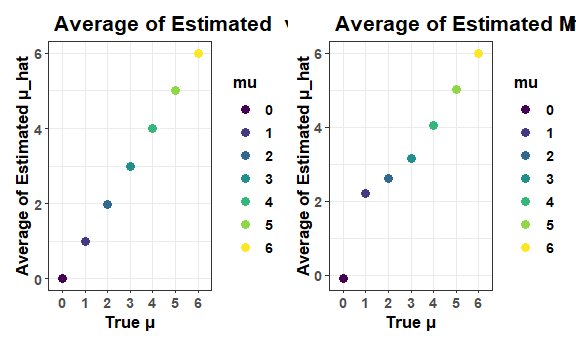
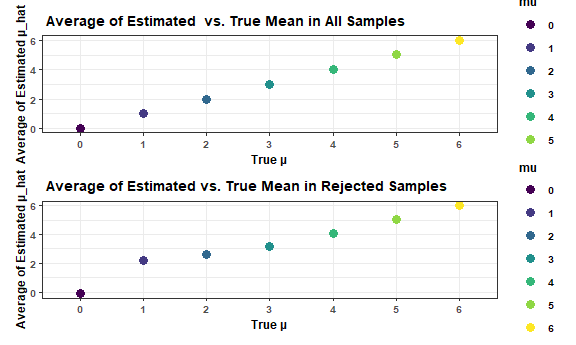
Finish editting Problem 3.

diff --git a/p8105_hw5_qz2266.md b/p8105_hw5_qz2266.md
@@ -187,15 +187,15 @@ unsettled.
 
 ### Problem 3
 
-#### Set the function and ttest
+#### Set the function
 
 ``` r
 set.seed(1)
 
-sim_nor = function(n = 30, mu = 0, sigma = 5){
+sim_nor = function(n = 30, mu, sigma = 5){
   sim_data = tibble(
     x = rnorm(n, mean = mu, sd = sigma))
-  ttest = t.test(x = sim_data, conf.level = 0.95) %>%
+    ttest = t.test(x = sim_data, conf.level = 0.95) %>%
     broom::tidy() %>%
     select(estimate, p.value)
 }
@@ -271,6 +271,13 @@ power_plot
 
 <img src="p8105_hw5_qz2266_files/figure-gfm/unnamed-chunk-7-1.png" width="90%" />
 
+From the power_plot, we find that as the true mean increases, the
+proportion of rejecting null hypothesis increases rapidly at first, then
+more slowly, and eventually approaches to 1. Therefore, the association
+between the effect size and the power of the test is positive, since
+these two variables tend to increase together, holding all else
+constant.
+
 #### Make a plot showing the average estimate of μ^ and the true value of μ
 
 ``` r
@@ -283,11 +290,11 @@ total_plot =
   ggplot(aes(x = mu, y = avg_estimate, color = mu)) + 
   geom_point(size = 3) +
   
-  theme_bw() + theme(text = element_text(face = "bold", size = 13)) +
+  theme_bw() + theme(text = element_text(face = "bold", size = 9)) +
   labs(
     x = "True μ", 
     y = "Average of Estimated μ_hat", 
-    title = " Average of Estimated  vs. True Mean Among All Samples"
+    title = " Average of Estimated  vs. True Mean in All Samples"
   ) 
  
 total_plot
@@ -308,11 +315,11 @@ reject_plot =
   ggplot(aes(x = mu, y = avg_estimate, color = mu)) + 
   geom_point(size = 3) +
   
-  theme_bw() + theme(text = element_text(face = "bold", size = 13)) +
+  theme_bw() + theme(text = element_text(face = "bold", size = 9)) +
   labs(
     x = "True μ", 
     y = "Average of Estimated μ_hat",
-    title = " Average of Estimated Mean vs. True Mean Among Rejected Samples"
+    title = " Average of Estimated vs. True Mean in Rejected Samples"
   ) 
 
 reject_plot
@@ -321,7 +328,28 @@ reject_plot
 <img src="p8105_hw5_qz2266_files/figure-gfm/unnamed-chunk-9-1.png" width="90%" />
 
 ``` r
-total_plot + reject_plot
+total_plot / reject_plot
 ```
 
 <img src="p8105_hw5_qz2266_files/figure-gfm/unnamed-chunk-10-1.png" width="90%" />
+
+The sample average of μ_hat across tests for which the null is rejected
+is NOT approximately equal to the true value of μ when μ = 1,2 and 3.
+Since sample mean is far away from the mean under the null hypothesis
+when the sample mean is relatively low, and the average of mean of the
+rejected tests is far away from the null too.From the power_plot, we can
+see for μ = 1,2 and 3, the power of test is pretty low (0.2\~0.8).
+
+However, when μ = 4,5 and 6, the rejected estimate is approximately
+equal to the true value of μ since now almost all tests are rejected.
+From the above power_plot, we can see for μ = 4,5 and 6, the power of
+test is around 1.
+
+When μ = 0, the rejected samples have their estimated μ close to their
+true mean = 0, which is exactly the null hypothesis. Thus, the rejected
+samples’ estimated μ is still close to the true mean, regardless of its
+low power.
+
+From the above 3 plots we know, as effect size increases, power
+increases and approach to 1, and the estimated μ will approach the true
+population μ as well.
